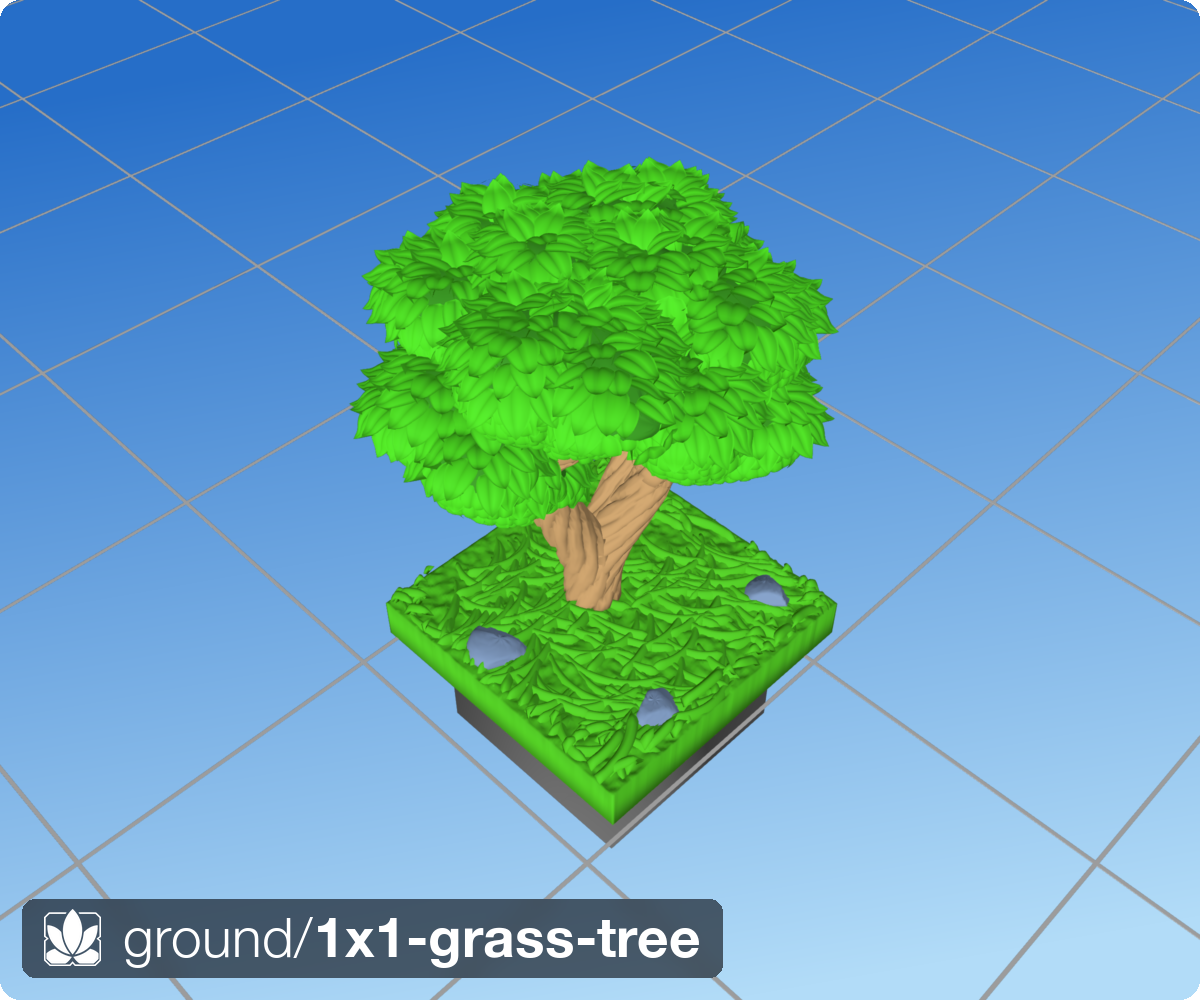
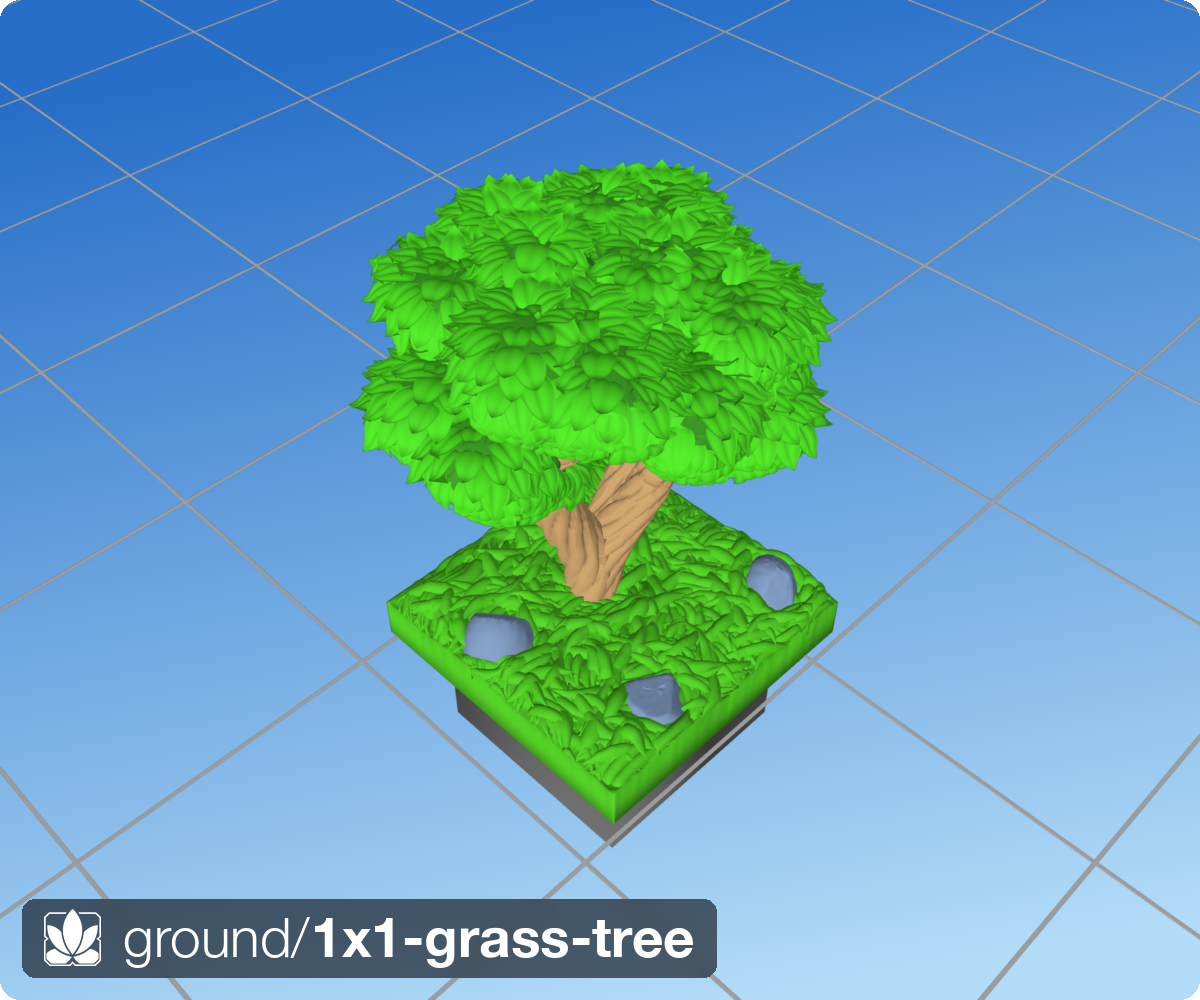
Audit: crown-rule rocks for all grass-region Rocks in the tile set
Scripted audit over every .tile.py: for each region containing both
Rocks and Grass, min crown = min(r)*min(flat) - sink checked against the
~3.4mm mounds+stack canopy.  Only 1x1-grass-tree failed (default
flat/sink -> 0.7mm min crown).  Both tree tiles now size meadow rocks
by construction against the worst case (min crown 5.1mm):
r=D[3.6:4.6].power(1.3), flat=D[1.5:1.7], sink=0.3, shallow cuts; also
reordered 1x1-grass-tree so Rocks/Tree stamp before GrassCarpet.
Regenerated both tiles at both scales; verified meadow crowns positive
(one stone sits beside a taller sheaf, visually exposed).

diff --git a/src/tiles/ground/1x1-grass-tree.tile.py b/src/tiles/ground/1x1-grass-tree.tile.py
@@ -17,14 +17,17 @@ tile = Tile(
             id='meadow',
             selector=FloodFill(0.5, 0.5),
             layers=[
-                GrassCarpet(
-                    species=_species,
-                    placement=Grouped(groups_per_square=3),
-                ),
-                # Rocks first — stamp obstacle_mask so grass steers around them
+                # Obstacle-stampers (Rocks, Tree) before the carpet and grass:
+                # carpet tubes end at footprints instead of being impaled.
+                # Crown rule for rocks in thatch grass: r*flat - sink must
+                # beat mounds + blade stack (~3.4 mm) or the stones drown.
                 Rocks(
-                    r=D[2.5:4.5],
-                    placement=Uniform(count_per_square=3),
+                    r=D[3.6:4.6].power(1.3),
+                    flat=D[1.5:1.7],
+                    sink=0.3,
+                    n_cuts=5,
+                    cut=D[0.82:0.96],
+                    placement=Uniform(count_per_square=3, gap_mm=7),
                 ),
                 # Tree next — trunk footprint stamped before grass is planted
                 Tree(
@@ -36,6 +39,10 @@ tile = Tile(
                     foliage_clusters=True,
                     leaf_length_mm=4.5,
                     leaf_width_mm=3.0,
+                ),
+                GrassCarpet(
+                    species=_species,
+                    placement=Grouped(groups_per_square=3),
                 ),
                 # Grass last — grows around rocks and tree trunk
                 Grass(

diff --git a/src/tiles/water/1x1-grass-tree+water.tile.py b/src/tiles/water/1x1-grass-tree+water.tile.py
@@ -55,8 +55,8 @@ tile = Tile(
                 # r*flat - sink must beat mounds + blade stack (~3.4 mm),
                 # or the stones drown in the grass.
                 Rocks(
-                    r=D[3.2:4.4].power(1.3),
-                    flat=D[1.35:1.6],
+                    r=D[3.6:4.6].power(1.3),
+                    flat=D[1.5:1.7],
                     sink=0.3,
                     n_cuts=5,
                     cut=D[0.82:0.96],

diff --git a/docs/meta/history/2026-07-03-grass-greenfield-requirements.md b/docs/meta/history/2026-07-03-grass-greenfield-requirements.md
@@ -530,6 +530,16 @@ support/obstacle stamp** so deep-cut craggy rocks become safe again.
 Final STL `stl/test/1x1-thatch-bushy-rock-db.stl` (144 k faces,
 watertight); renders `…-thatch-rock-top.png` / `…-interaction.png`.
 
+**Default rollout findings (1x1-grass-tree+water, first real tile):**
+(1) The tree's exponential tufting falloff in `terrain_support_z` (full
+tree height at trunk, e-decay/5 mm — an old-sim hint, not geometry) read
+as an 18 mm impassable wall and stripped the meadow bare; ThatchGrass now
+uses an effective support that is solid only at obstacle footprints.
+(2) **Every legacy rock spec in a grass region is under-sized for the
+thatch** — old rocks were scaled against flat grass (crowns 0.6–2 mm) and
+drown under mounds + blades.  Apply the crown rule (r·flat − sink ≳
+3.4 mm) tile by tile as tiles are regenerated; done for this tile.
+
 **Open punch list for the next session:**
 1. The residual mound-apex bump may be fine (reference print has peaks) —
    judge on a real pyrender render + by Shawn; the sw-render drybrush
